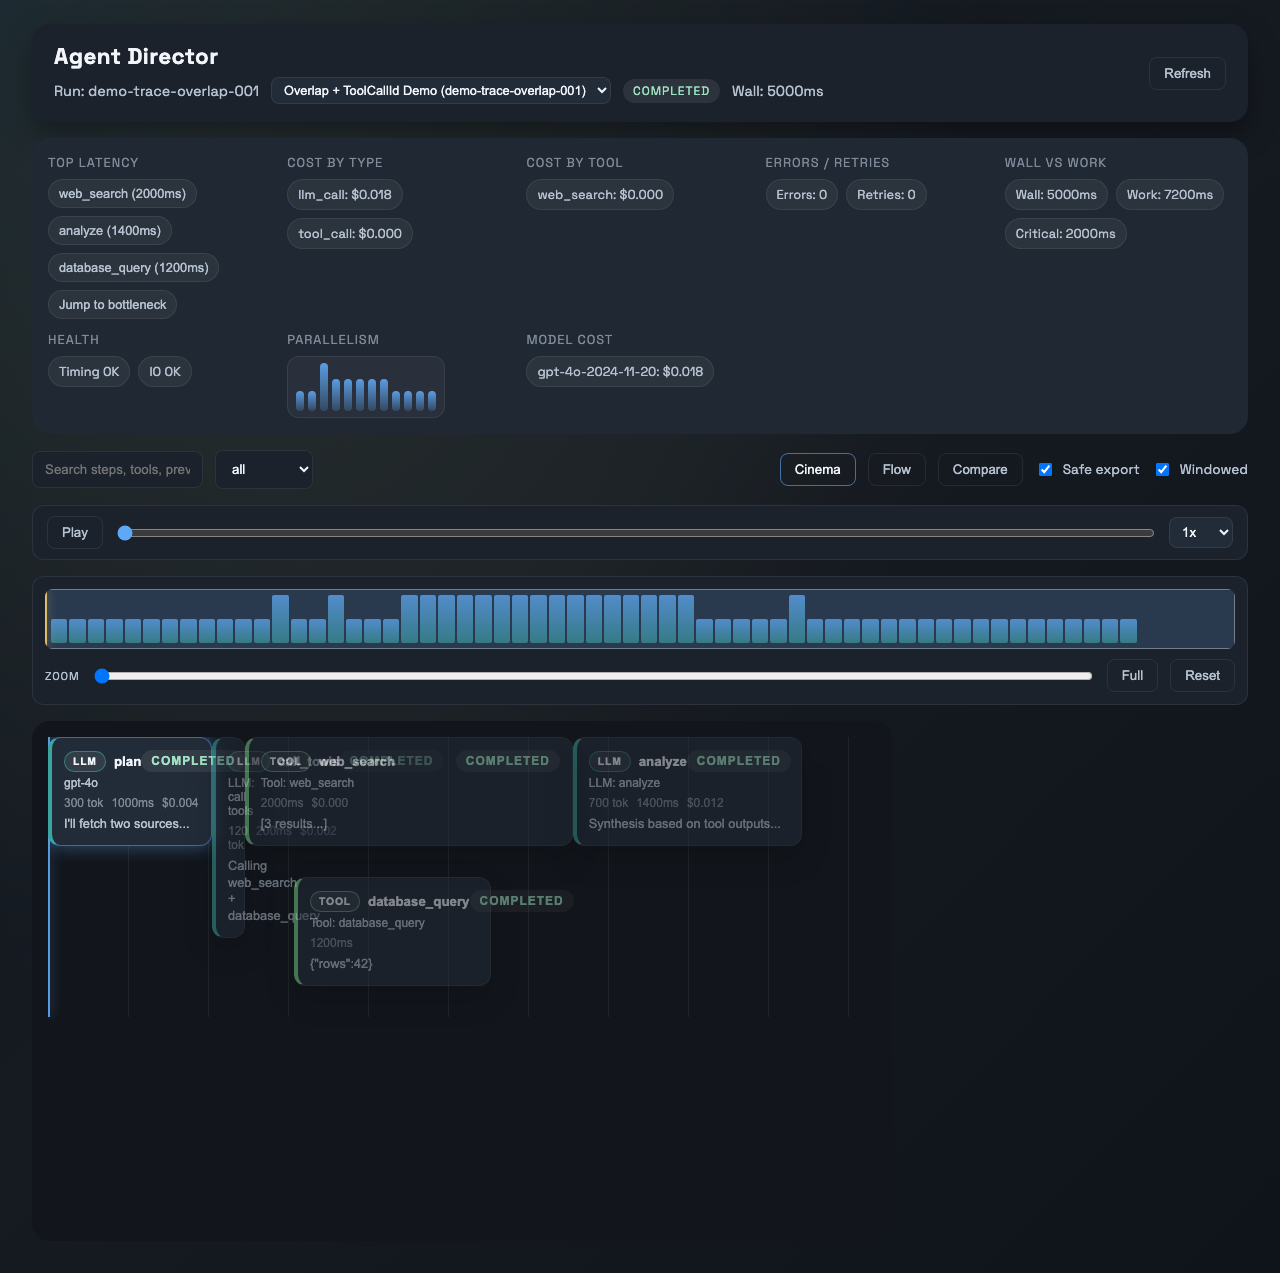
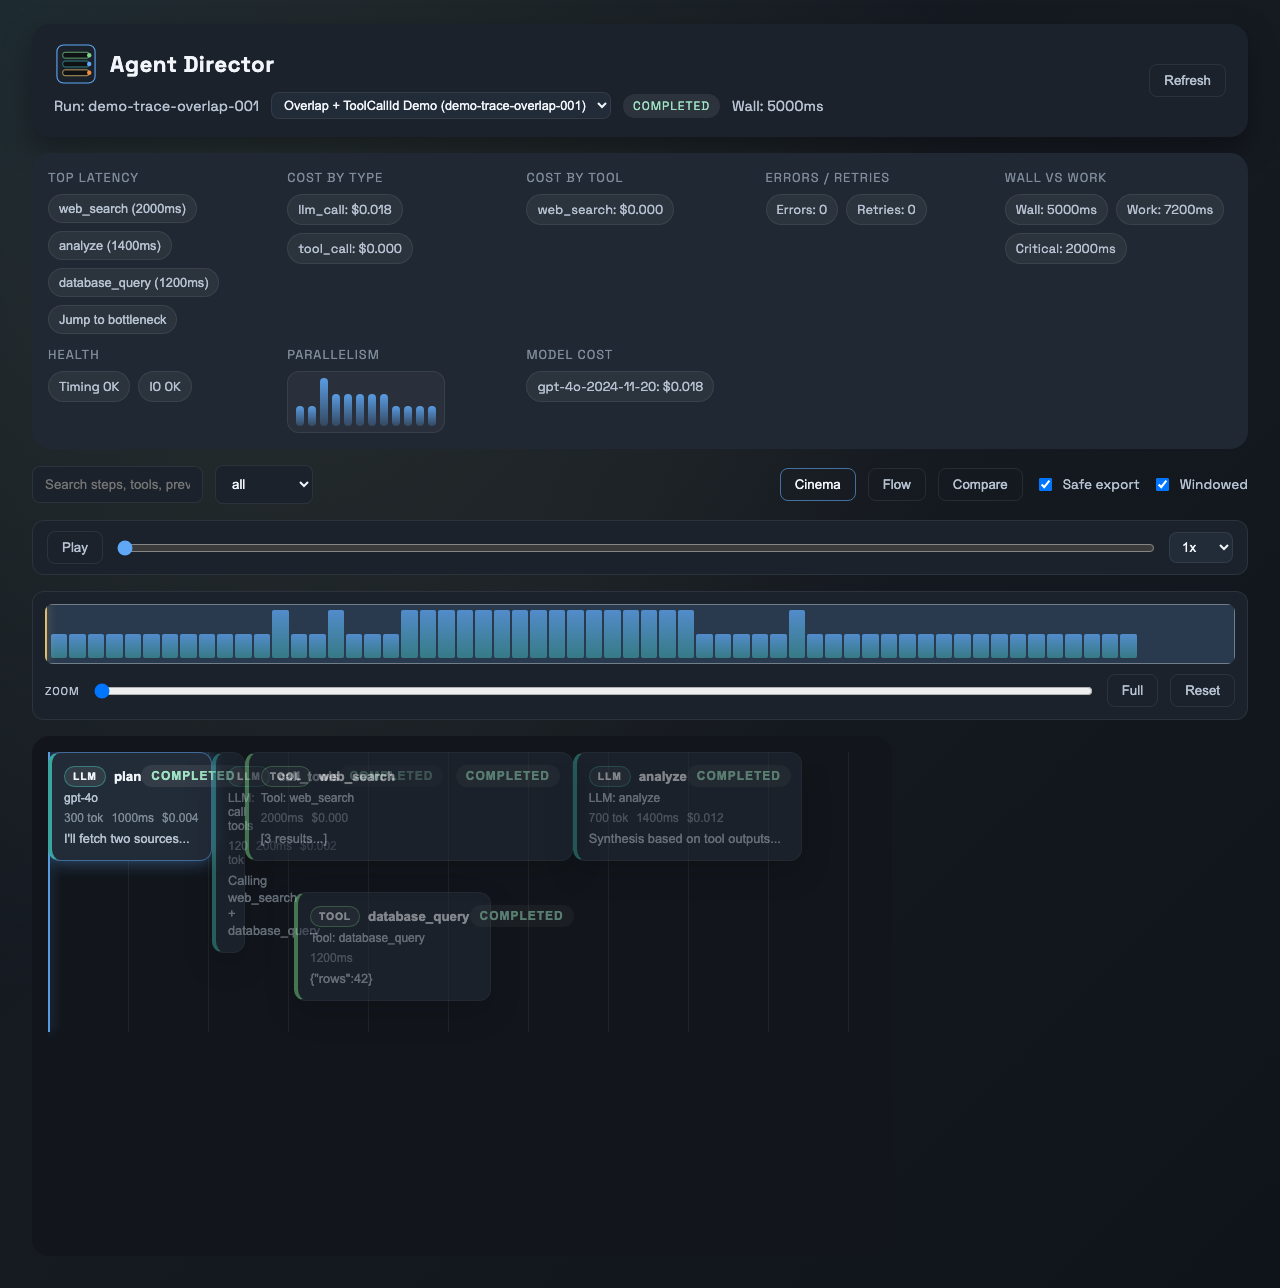
polish: tighten branding, docs, and golden visuals

diff --git a/README.md b/README.md
@@ -17,6 +17,7 @@ Agent Director is a cinematic, chat-native trace debugger for AI agents. It turn
 - Director’s Cut replay with deterministic invalidation + provenance
 - Compare mode with stable alignment, ghost overlays, and diff export
 - Insight Strip with critical path, concurrency heatmap, and IO/timing warnings
+- CI + strict verification gates with mutation testing
 
 ## Quick demo (90 seconds)
 1. Load the latest run and hit Play to show timeline playback.

diff --git a/docs/brand.md b/docs/brand.md
@@ -21,3 +21,4 @@ Tagline: **Watch your agent think. Then direct it.**
 - Night mode by default.
 - Accent colors map to step types.
 - Timeline and graph feel like instruments, not dashboards.
+- Logo mark animates subtly (pulsing bars + nodes) with reduced-motion fallback.
